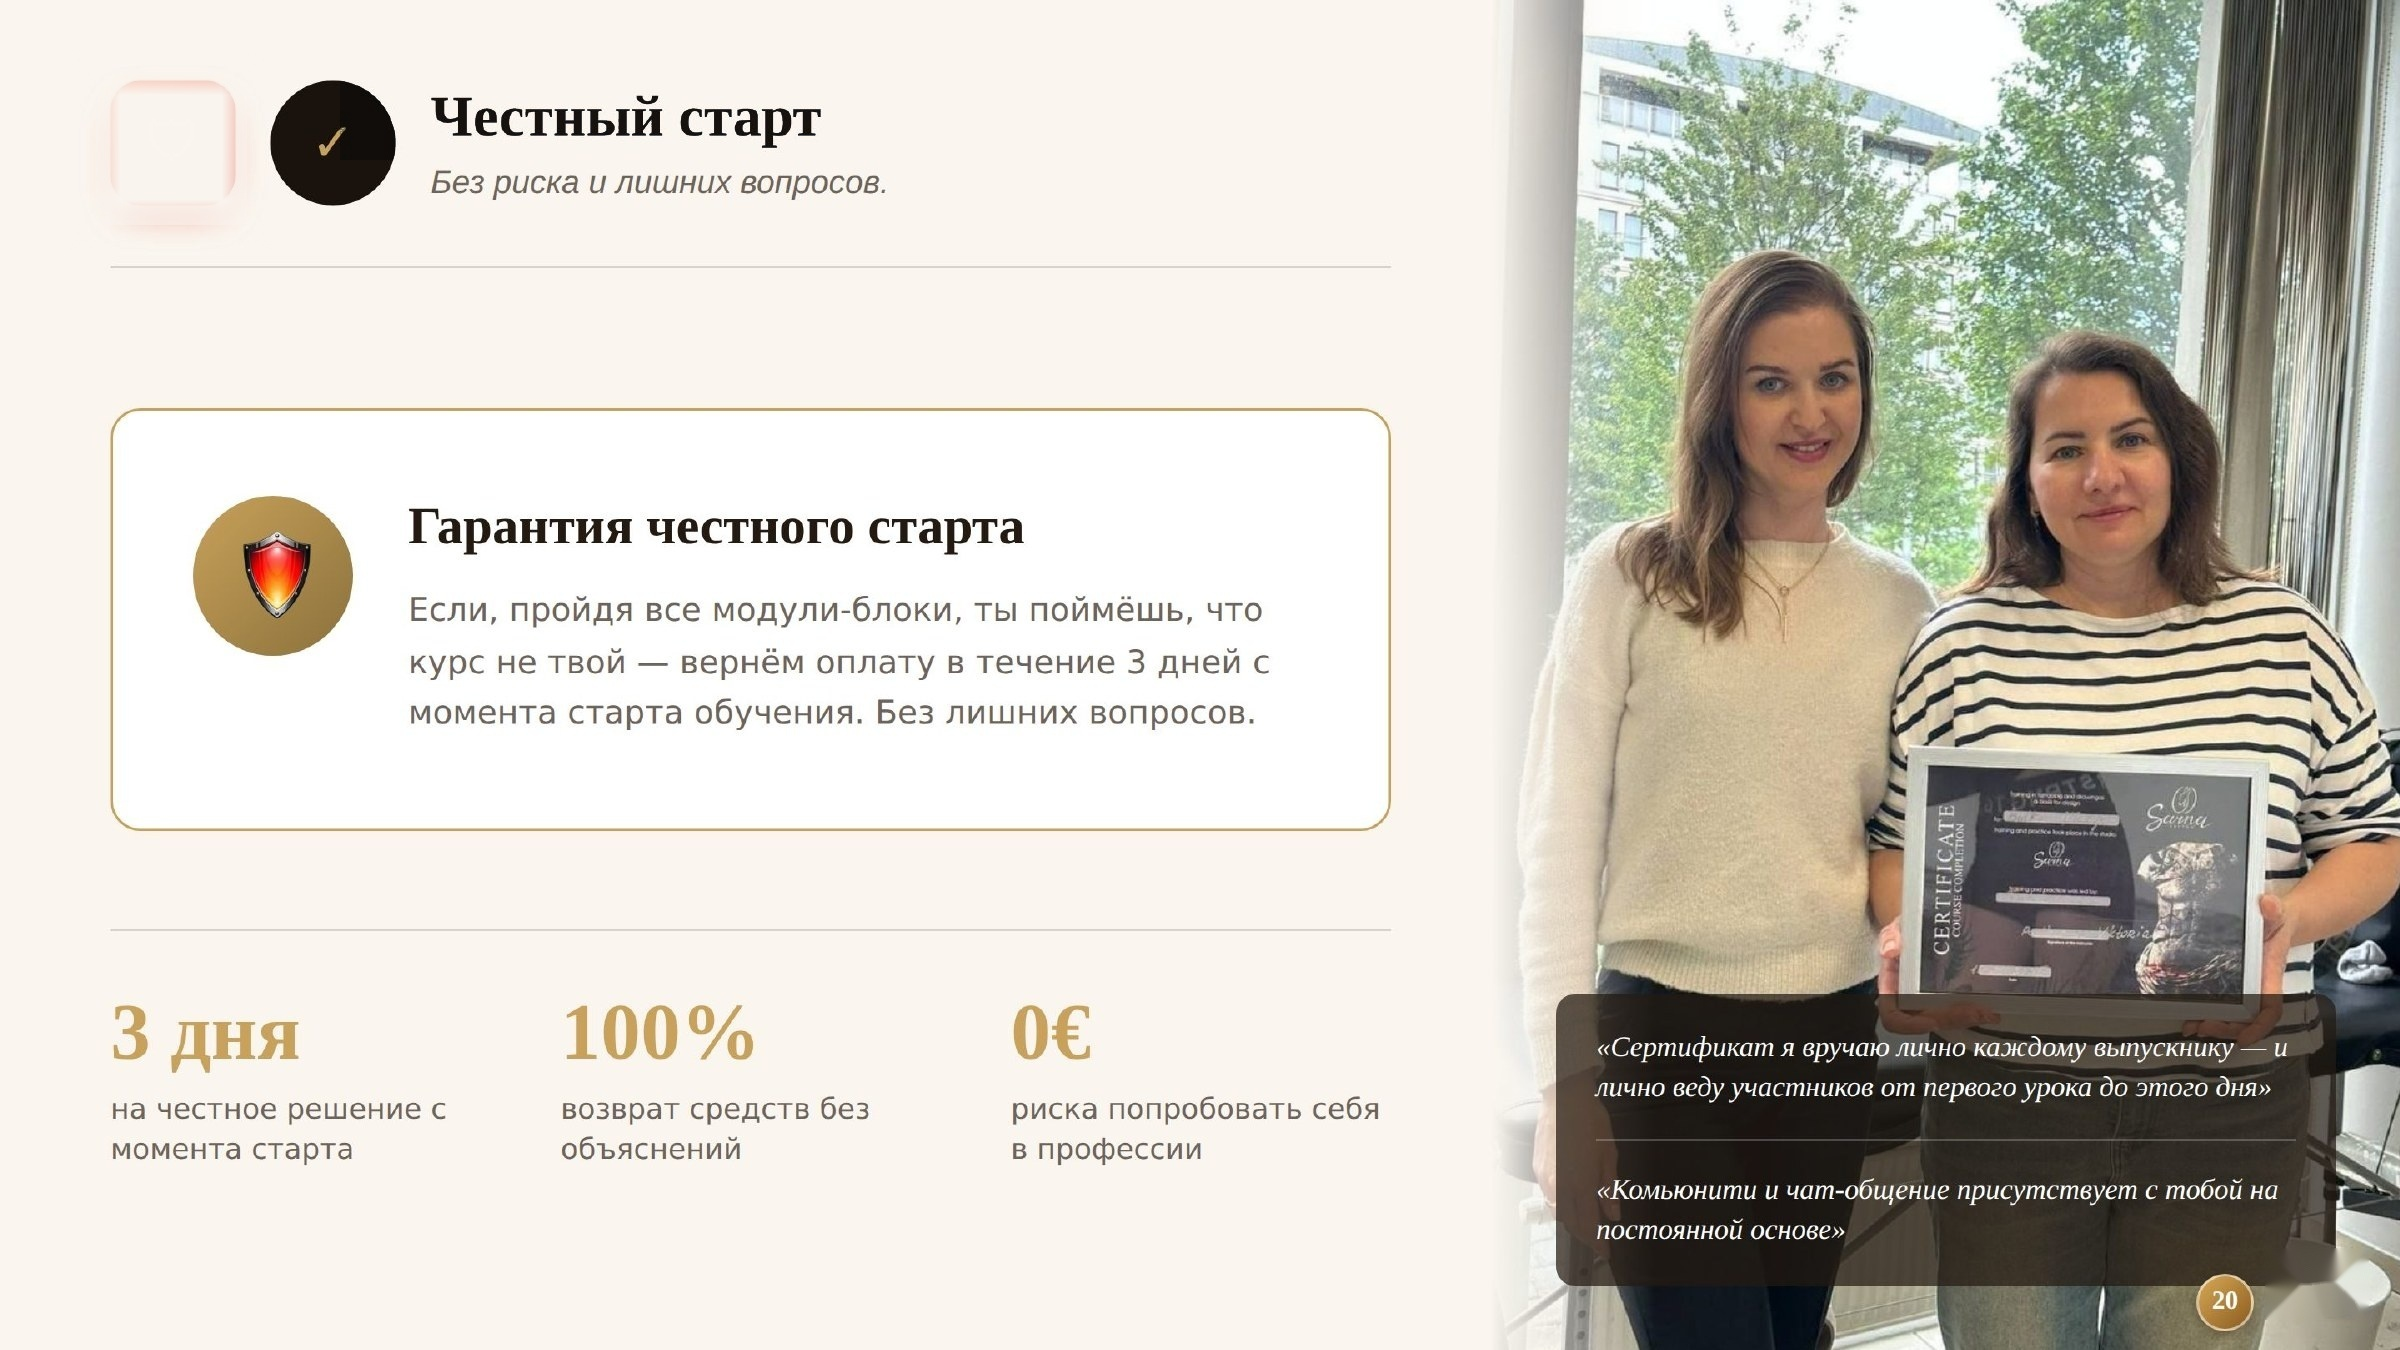
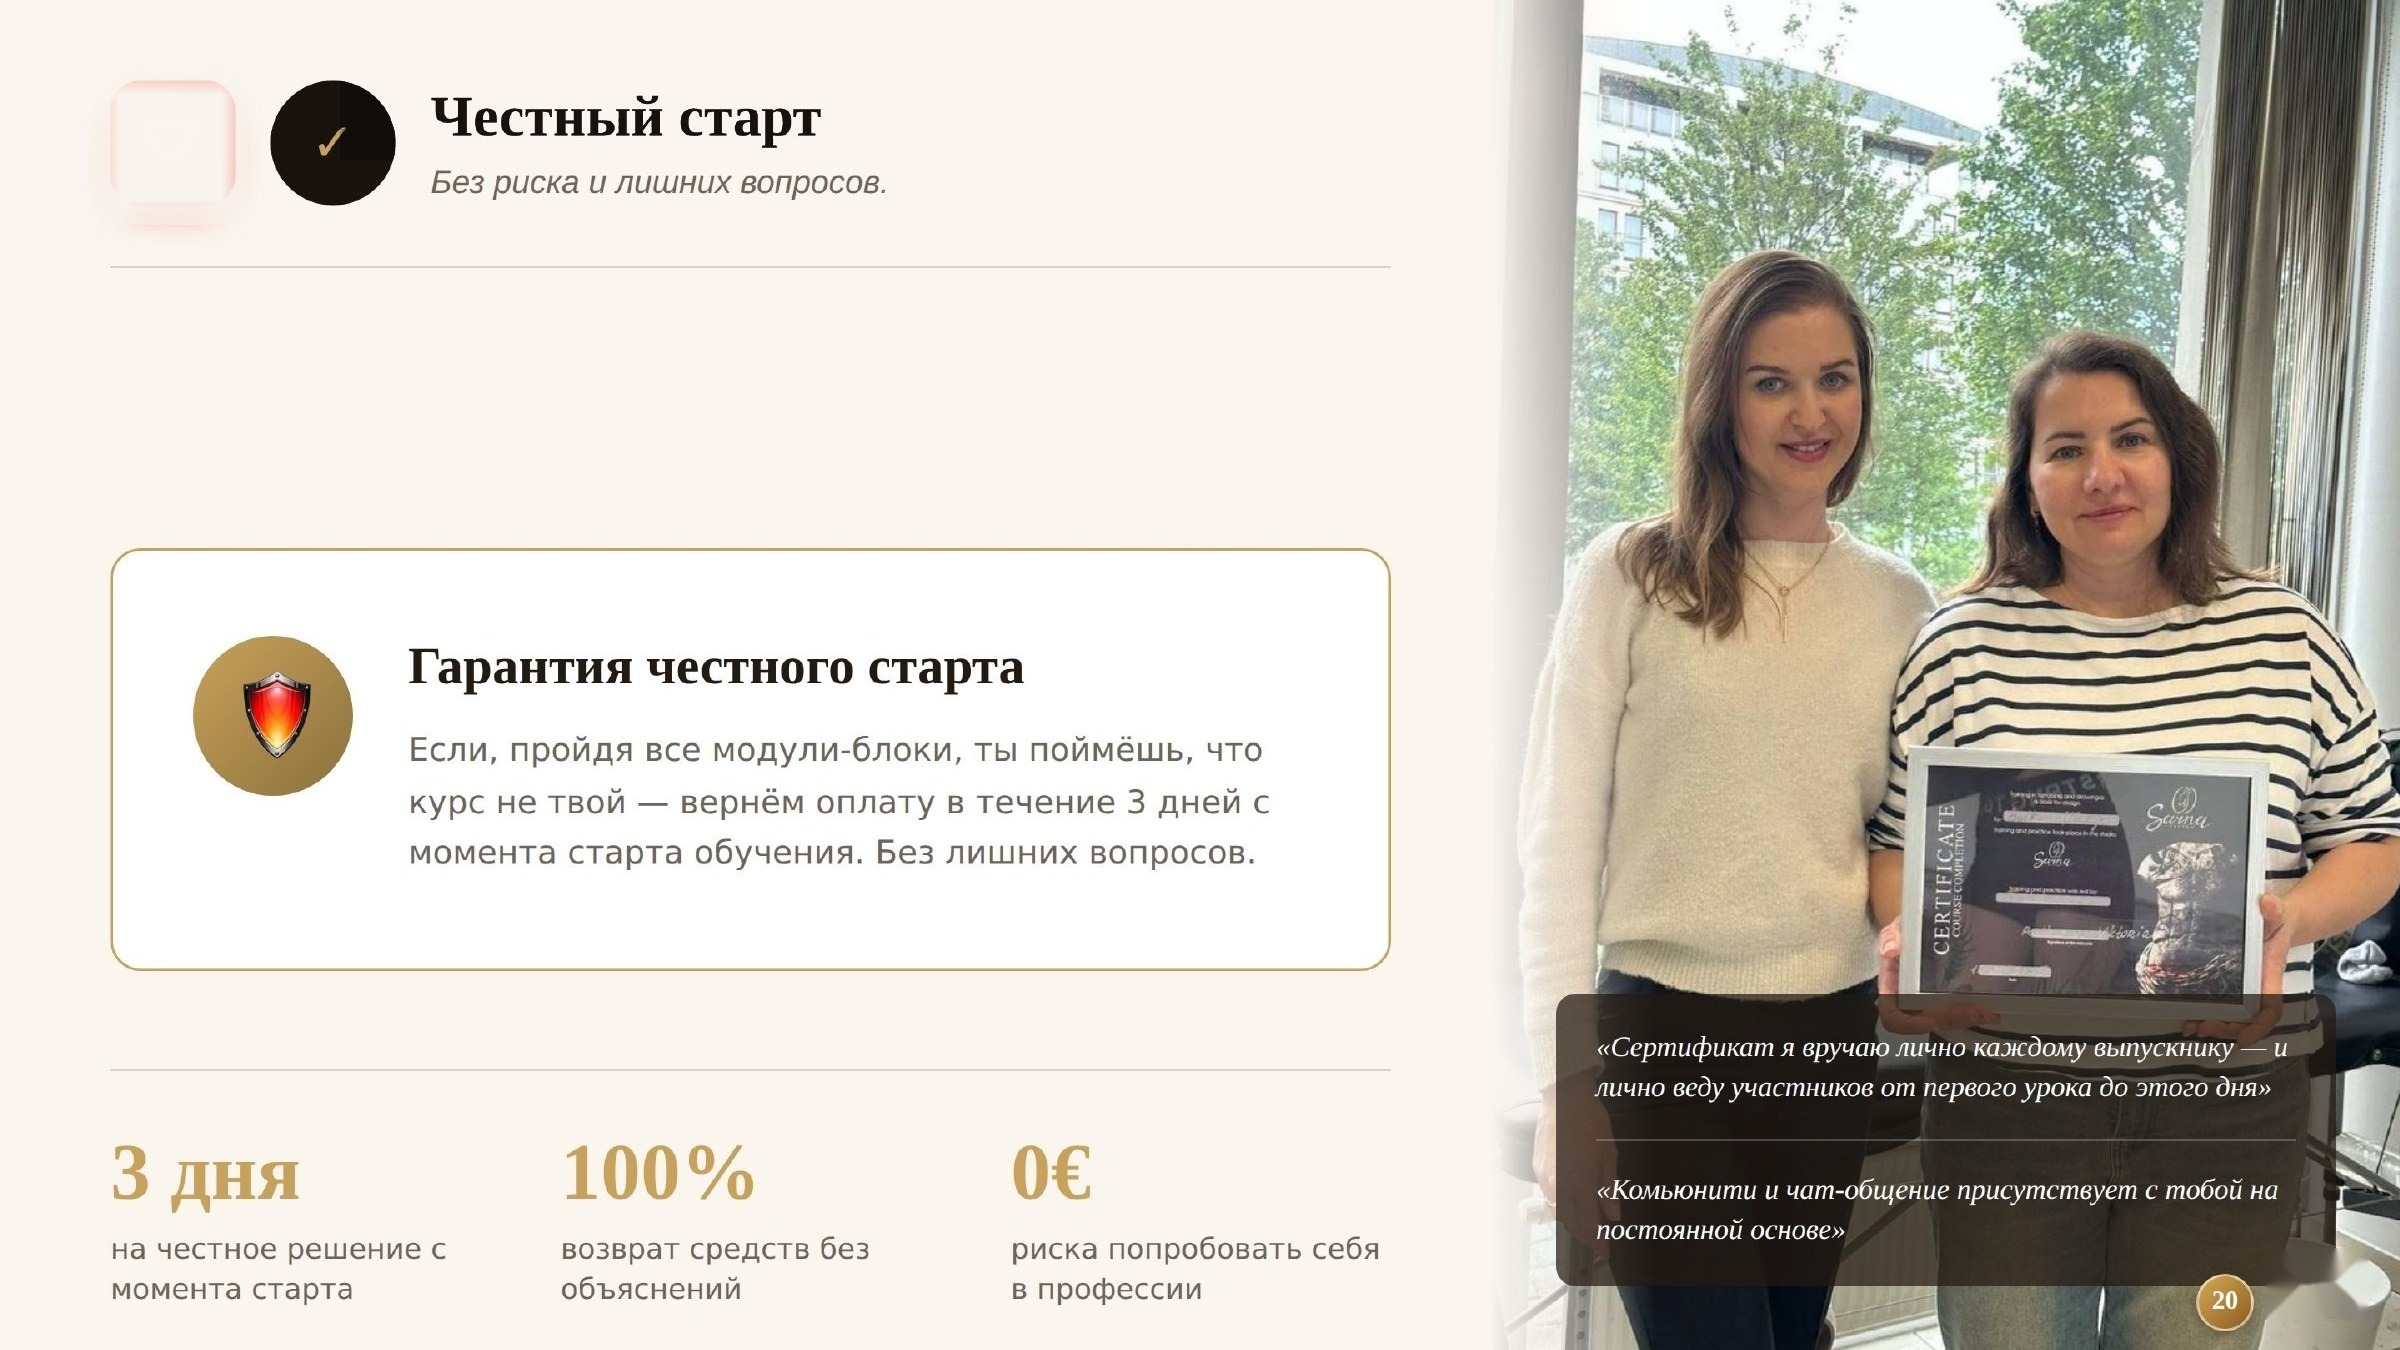
Add "Честный ответ" box above the guarantee card on slide 21
Shifted the existing guarantee card and stats row down inside
slide-21.jpg (photo column left untouched) to free space for a new
real-HTML text box explaining the pricing.

Claude-Session: https://claude.ai/code/session_01CnfRud7UFKfhrBcKWTmy69

diff --git a/docs/index.html b/docs/index.html
@@ -211,6 +211,33 @@
     font-weight:700; font-size:1.05cqw; color:#d8cdb8;
   }
 
+  /* ---- New slide 21 box: "Честный ответ" -----------------------------
+     Inserted above the existing "Гарантия честного старта" card; that
+     card and the stats row below it were shifted down inside slide-21.jpg
+     to make room (photo column untouched), and this real HTML box fills
+     the freed space. */
+  .ov-s21-honest{
+    left:4.92%; top:21.5%; width:52.75%; height:17%;
+    display:flex; flex-direction:column; justify-content:center;
+  }
+  .ov-s21-honest .eyebrow{
+    display:flex; align-items:center; gap:0.7cqw;
+    font-family:'Playfair Display',serif; font-style:italic; font-weight:700;
+    font-size:1.5cqw; color:#a9662f; margin-bottom:0.7cqw; line-height:1;
+  }
+  .ov-s21-honest .eyebrow::before{
+    content:""; width:0.22cqw; align-self:stretch; min-height:1.5cqw;
+    background:#c9a15a; border-radius:999px;
+  }
+  .ov-s21-honest h3{
+    font-family:'Playfair Display',serif; font-weight:800; font-size:1.75cqw;
+    color:#1a120c; margin:0 0 0.7cqw;
+  }
+  .ov-s21-honest p{
+    font-family:'Nunito',sans-serif; font-weight:500; font-size:1.02cqw;
+    line-height:1.5; color:#6f6659; margin:0;
+  }
+
   /* ---- New slide 3: "Формат поддержки" ------------------------------
      Split out of the old slide 2 into its own slide, rebuilt with the
      same header-badge + 4-card + quote-box structure the other module
@@ -345,7 +372,16 @@
     <div class="ov ov-badge on-light" style="left:91.29%;"><span class="num">19</span><span class="den">/23</span></div>
   </div>
   <div class="slide-wrap"><img class="slide-img" src="assets/slides/slide-20.jpg?v=7" alt="Слайд 20 — почему именно это обучение"><div class="ov sq-icon-hdr" style="left:3.958%;top:5.185%;width:6.333%;height:11.481%;"><img src="assets/icons/scales.png?v=3" alt=""></div><div class="ov ov-badge on-light" style="left:91.29%;"><span class="num">20</span><span class="den">/23</span></div></div>
-  <div class="slide-wrap"><img class="slide-img" src="assets/slides/slide-21.jpg?v=7" alt="Слайд 21 — честный старт"><div class="ov sq-icon-hdr" style="left:3.958%;top:5.185%;width:6.333%;height:11.481%;"><img src="assets/icons/shield.png?v=3" alt=""></div><div class="ov ov-badge on-light" style="left:91.29%;"><span class="num">21</span><span class="den">/23</span></div></div>
+  <div class="slide-wrap">
+    <img class="slide-img" src="assets/slides/slide-21.jpg?v=8" alt="Слайд 21 — честный старт">
+    <div class="ov sq-icon-hdr" style="left:3.958%;top:5.185%;width:6.333%;height:11.481%;"><img src="assets/icons/shield.png?v=3" alt=""></div>
+    <div class="ov ov-s21-honest">
+      <div class="eyebrow">Честный ответ</div>
+      <h3>Почему такая низкая цена?</h3>
+      <p>Я знаю, что не каждый готов сразу платить за очное обучение в студии от 800€ и присутствовать лично в студии на обучении. Поэтому сделала онлайн обучение по доступной цене — чтобы вы могли начать путь в профессии без риска, а дальше уже сами решали, куда расти: в свою мини-студию или в открытие своего дела.</p>
+    </div>
+    <div class="ov ov-badge on-light" style="left:91.29%;"><span class="num">21</span><span class="den">/23</span></div>
+  </div>
   <div class="slide-wrap"><img class="slide-img" src="assets/slides/slide-22.jpg?v=7" alt="Слайд 22 — популярные вопросы"><div class="ov sq-icon-hdr" style="left:3.958%;top:5.185%;width:6.333%;height:11.481%;"><img src="assets/icons/question.png?v=3" alt=""></div><div class="ov ov-badge on-dark" style="left:91.29%;"><span class="num">22</span><span class="den">/23</span></div></div>
   <div class="slide-wrap">
     <img class="slide-img" src="assets/slides/slide-23.jpg?v=2" alt="Слайд 23 — готов начать путь в тату-индустрии">
